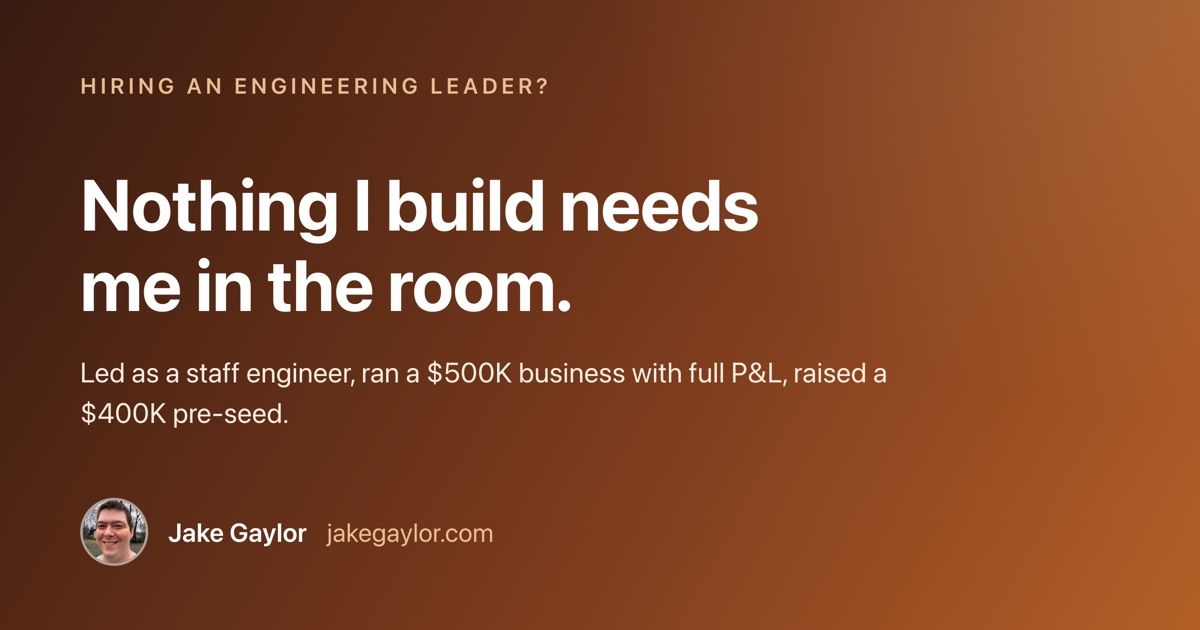
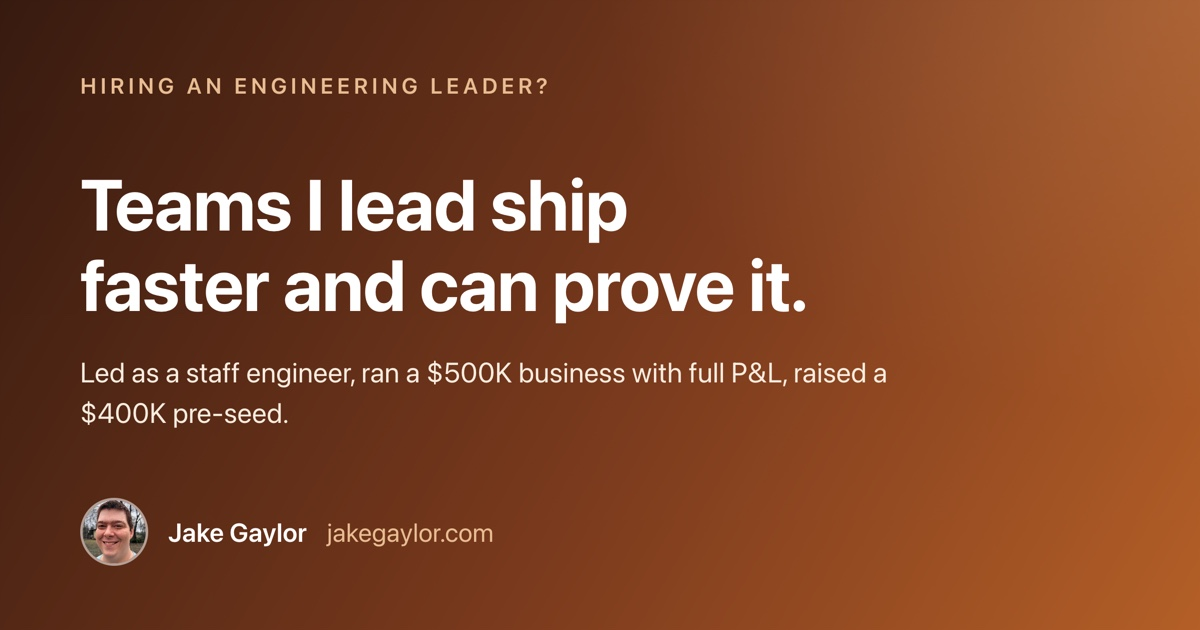
leader page: headline is "Teams I lead ship faster and can prove it"
The room line stays on the homepage where it is about systems. On the
leadership page the team is the subject and the receipts (3 days,
fastest release cycle, analytics, instrumented Ravi) are the proof.
Front matter, OG card, and og_image ?v= updated to match.

Changed region(s): [[0.0617, 0.2714, 0.6783, 0.5127]]

diff --git a/engineering-leader.html b/engineering-leader.html
@@ -1,11 +1,11 @@
 ---
 layout: layouts/home.html
 title: Jake Gaylor · Engineering Leader
-description: Nothing Jake Gaylor builds needs him in the room. He has led as a staff engineer, run a $500K business with a team of 7 and full P&L ownership, raised a $400K pre-seed, and built the visibility systems that let whole companies see their own work.
-socialDescription: Nothing I build needs me in the room. Led as a staff engineer, ran a $500K business with full P&L, and raised a $400K pre-seed as a founder.
+description: Teams Jake Gaylor leads ship faster and can prove it. He has led as a staff engineer, run a $500K business with a team of 7 and full P&L ownership, raised a $400K pre-seed, and built the visibility systems that let whole companies see their own work.
+socialDescription: Teams I lead ship faster and can prove it. Led as a staff engineer, ran a $500K business with full P&L, and raised a $400K pre-seed as a founder.
 canonicalPath: /engineering-leader/
-og_image: /images/og/role-engineering-leader.jpg
-og_image_alt: Hiring an engineering leader? Nothing I build needs me in the room.
+og_image: /images/og/role-engineering-leader.jpg?v=2
+og_image_alt: Hiring an engineering leader? Teams I lead ship faster and can prove it.
 ---
 
 {% assign ctaPrefix = "leader" %}
@@ -19,8 +19,8 @@ og_image_alt: Hiring an engineering leader? Nothing I build needs me in the room
         Engineering Leadership &middot; Lead / Manager / Head of
       </p>
       <h1 class="text-4xl md:text-5xl font-bold mb-6 leading-tight">
-        Nothing I build
-        <span class="text-transparent bg-clip-text bg-gradient-to-r from-brand-200 to-white"> needs me in the room.</span>
+        Teams I lead ship faster
+        <span class="text-transparent bg-clip-text bg-gradient-to-r from-brand-200 to-white"> and can prove it.</span>
       </h1>
       <p class="text-xl text-brand-100 mb-10">
         I have led as a staff engineer inside other people&rsquo;s orgs, as the owner of a whole business, and as
